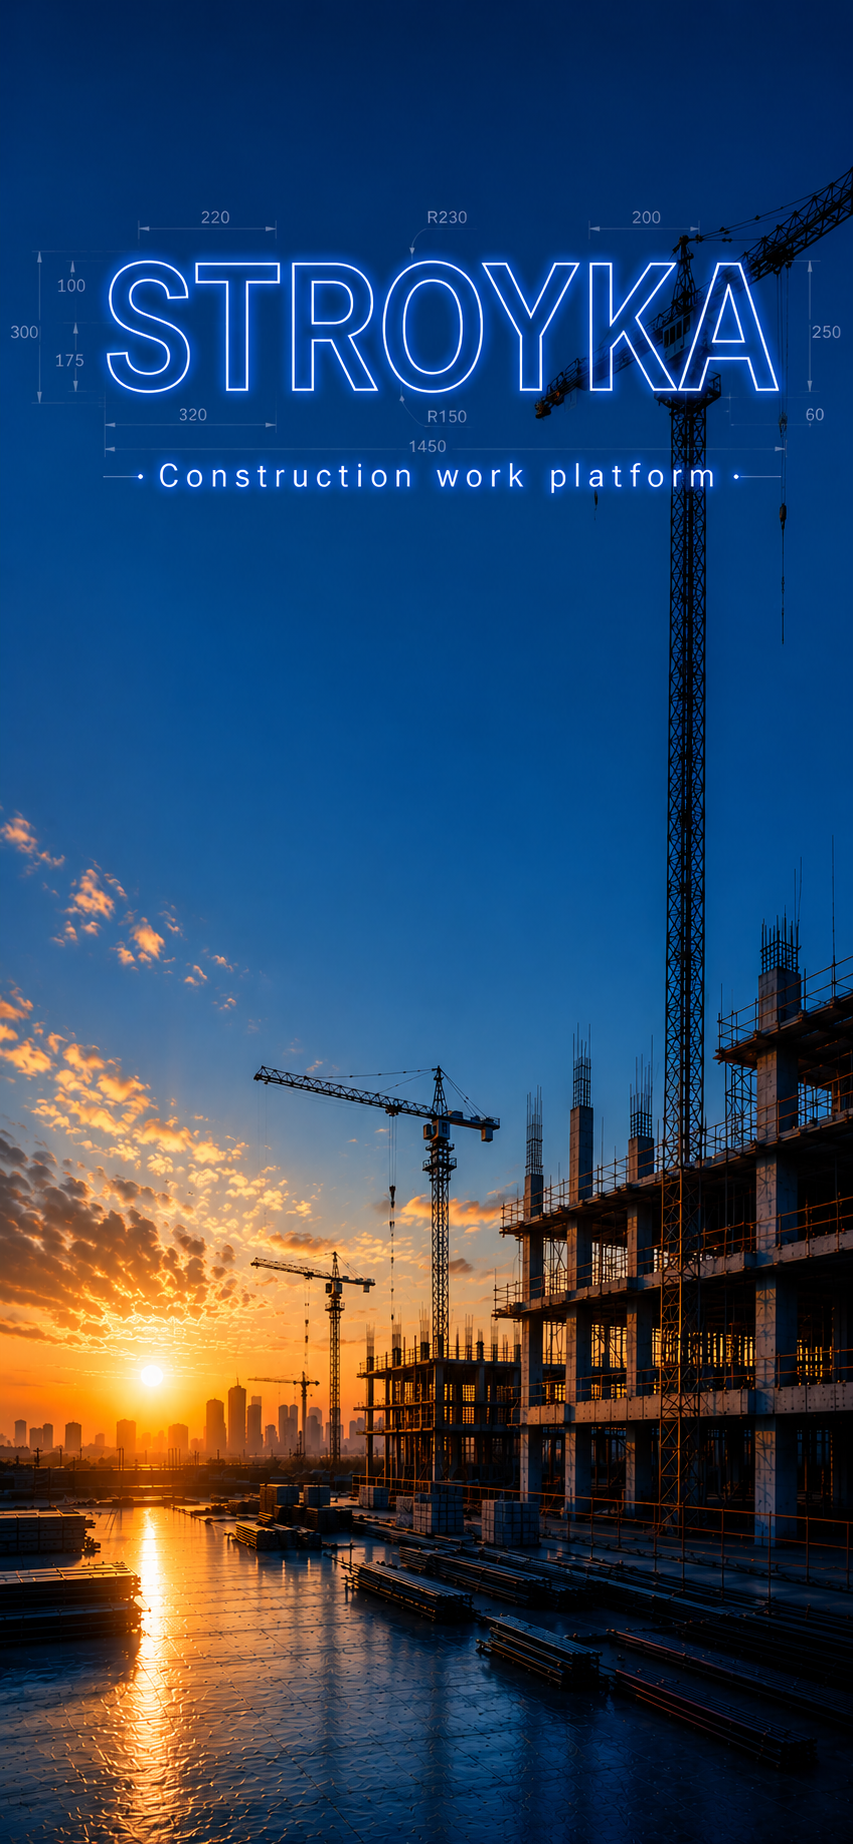
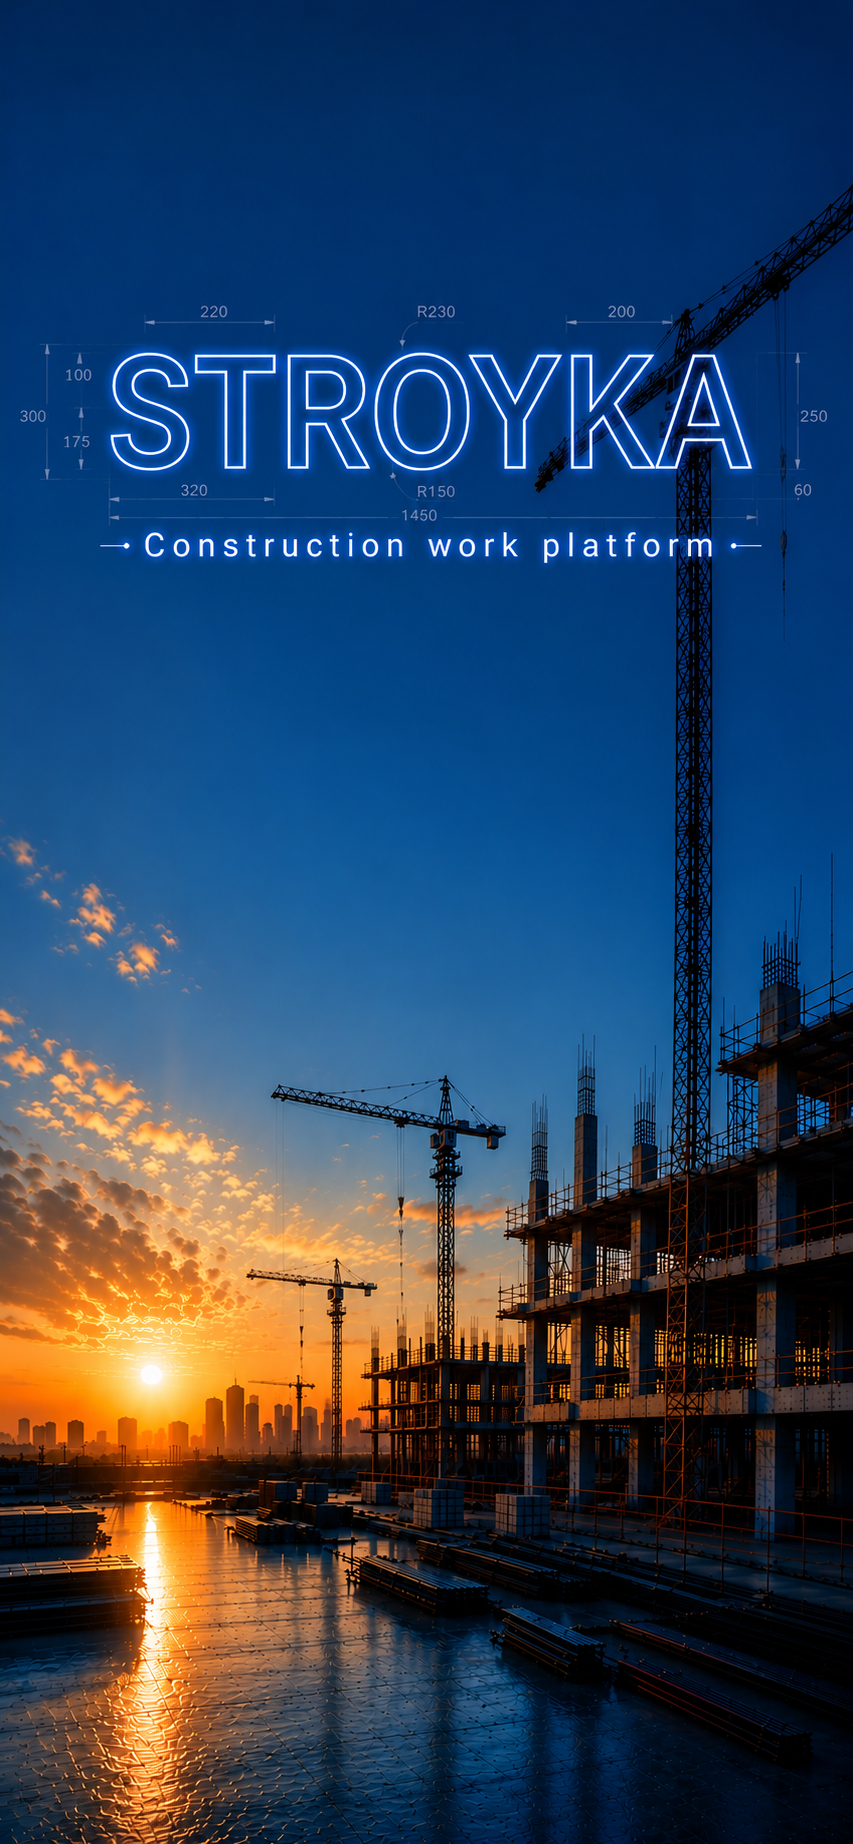
Update login background and form position

Changed region(s): [[0.0, 0.0927, 1.0, 1.0], [0.0, 0.4328, 0.2134, 0.5564], [0.2134, 0.4946, 0.2743, 0.5564]]

diff --git a/lib/screens/login_screen.dart b/lib/screens/login_screen.dart
@@ -190,7 +190,7 @@ class _LoginScreenState extends State<LoginScreen> {
                       mainAxisAlignment: MainAxisAlignment.center,
                       children: [
                         FractionalTranslation(
-                          translation: const Offset(0, 0.33),
+                          translation: const Offset(0, 0.08),
                           child: StroykaSurface(
                             padding: const EdgeInsets.fromLTRB(20, 24, 20, 20),
                             texture: "assets/branding/texture_light_cloud.jpg",